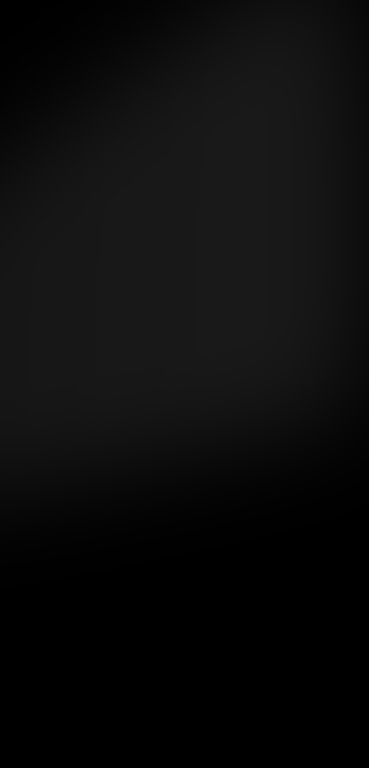
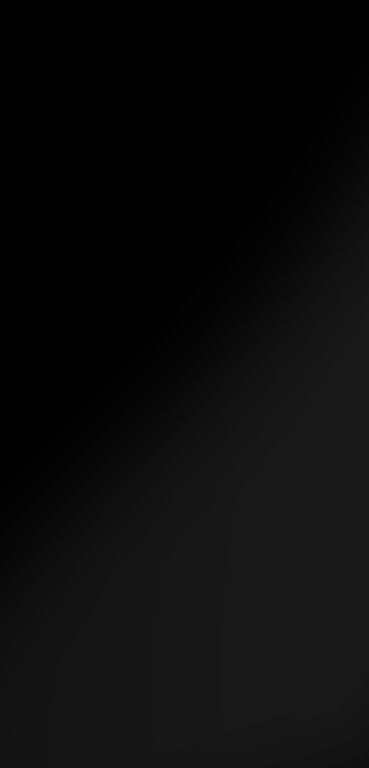
Change background for choreohomescreen & portrait formation screen

Changed region(s): [[0.5068, 0.125, 0.7453, 0.3438], [0.8645, 0.6562, 1.0, 0.9062]]

diff --git a/src/components/Home/HomeScreen.js b/src/components/Home/HomeScreen.js
@@ -104,6 +104,14 @@ class HomeScreen extends React.Component {
       </MobileLandscape>
 
       <MinTablet>
+      <Layout className="body" style={{overflowY: 'scroll', overflowX: 'hidden'}}>
+        {
+          this.state.addChoreoState
+            ? <AddPerformerScreen choreoName={this.state.newChoreoName} match={this.props.match}
+                                  onBack={this.handleChangeAddChoreoState}/>
+            : <ChoreoListScreen setModalVisible={this.setModalVisible}/>
+        }
+      </Layout>
         <Modal
           centered
           visible={this.state.modalVisible}

diff --git a/src/components/Home/ChoreoCards.css b/src/components/Home/ChoreoCards.css
@@ -208,6 +208,9 @@
   width: 100%;
   overflow: hidden;
   border-radius: 5px;
+  -webkit-box-shadow: 0px 0px 10px 0px rgba(0,0,0,0.75);
+  -moz-box-shadow: 0px 0px 10px 0px rgba(0,0,0,0.75);
+  box-shadow: 0px 0px 10px 0px rgba(0,0,0,0.75);
 }
 
 .mp-ant-card-cover img {
